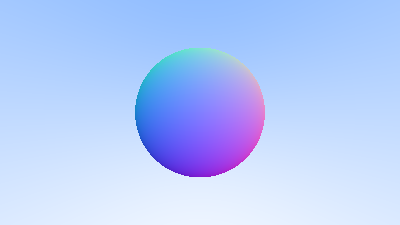
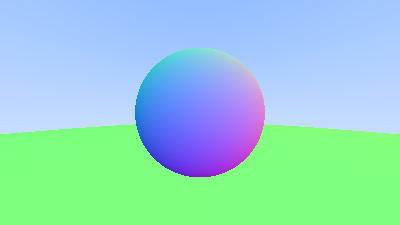
created a classes hittable and hittable_list

diff --git a/apps/main.cpp b/apps/main.cpp
@@ -1,25 +1,15 @@
 #include "face.h"
+#include "hittable.h"
+#include "hittable_list.h"
 #include "obj_loader.h"
 #include "ray.h"
+#include "rtweekend.h"
+#include "sphere.h"
 #include "triangle.h"
 #include "vec3.h"
 
 #include <iostream>
 #include "Magick++.h"
-
-double hit_sphere(const point3& center, double radius, const ray& r) {
-    vec3 oc = r.origin() - center;
-    auto a = r.direction().length_squared();
-    auto half_b = dot(oc, r.direction());
-    auto c = oc.length_squared() - radius*radius;
-    auto discriminant = half_b*half_b - a*c;
-
-    if (discriminant < 0) {
-        return -1.0;
-    } else {
-        return (-half_b - sqrt(discriminant) ) / a;
-    }
-}
 
 Magick::ColorRGB background_color(const ray& r) {
     vec3 unit_direction = unit_vector(r.direction());
@@ -29,11 +19,10 @@ Magick::ColorRGB background_color(const ray& r) {
     return Magick::ColorRGB(v.x(), v.y(), v.z());
 }
 
-Magick::ColorRGB ray_color(const ray& r) {
-    auto t = hit_sphere(point3(0, 0, -1), 0.5, r);
-    if (t > 0.0) {
-        vec3 N = unit_vector(r.at(t) - vec3(0,0,-1));
-        vec3 color = 0.5*vec3(N.x()+1, N.y()+1, N.z()+1);
+Magick::ColorRGB ray_color(const ray& r, const hittable& world) {
+    hit_record rec;
+    if (world.hit(r, 0, infinity, rec)) {
+        vec3 color = 0.5 * (rec.normal + vec3(1,1,1));
         return Magick::ColorRGB(color.x(), color.y(), color.z());
     }
 
@@ -61,6 +50,14 @@ int main() {
     image_height = (image_height < 1) ? 1 : image_height;
 
     Magick::Image image(Magick::Geometry(image_width, image_height), "white");
+
+    // World
+
+    hittable_list world;
+
+    world.add(make_shared<sphere>(point3(0,0,-1), 0.5));
+    world.add(make_shared<sphere>(point3(0,-100.5,-1), 100));
+
     // Camera
 
     auto focal_length = 1.0;
@@ -95,7 +92,7 @@ int main() {
                 if(is_hit) break;
             }*/
 
-            Magick::ColorRGB pixel_color = ray_color(r);
+            Magick::ColorRGB pixel_color = ray_color(r, world);
             image.pixelColor(i, j, pixel_color);
         }
     }

diff --git a/include/hittable_list.h b/include/hittable_list.h
@@ -1,0 +1,42 @@
+#ifndef HITTABLE_LIST_H
+#define HITTABLE_LIST_H
+
+#include "hittable.h"
+
+#include <memory>
+#include <vector>
+
+using std::shared_ptr;
+using std::make_shared;
+
+class hittable_list : public hittable {
+  public:
+    std::vector<shared_ptr<hittable>> objects;
+
+    hittable_list() {}
+    hittable_list(shared_ptr<hittable> object) { add(object); }
+
+    void clear() { objects.clear(); }
+
+    void add(shared_ptr<hittable> object) {
+        objects.push_back(object);
+    }
+
+    bool hit(const ray& r, double ray_tmin, double ray_tmax, hit_record& rec) const override {
+        hit_record temp_rec;
+        bool hit_anything = false;
+        auto closest_so_far = ray_tmax;
+
+        for (const auto& object : objects) {
+            if (object->hit(r, ray_tmin, closest_so_far, temp_rec)) {
+                hit_anything = true;
+                closest_so_far = temp_rec.t;
+                rec = temp_rec;
+            }
+        }
+
+        return hit_anything;
+    }
+};
+
+#endif

diff --git a/include/rtweekend.h b/include/rtweekend.h
@@ -1,0 +1,30 @@
+#ifndef RTWEEKEND_H
+#define RTWEEKEND_H
+
+#include <cmath>
+#include <limits>
+#include <memory>
+
+// Usings
+
+using std::shared_ptr;
+using std::make_shared;
+using std::sqrt;
+
+// Constants
+
+const double infinity = std::numeric_limits<double>::infinity();
+const double pi = 3.1415926535897932385;
+
+// Utility Functions
+
+inline double degrees_to_radians(double degrees) {
+    return degrees * pi / 180.0;
+}
+
+// Common Headers
+
+#include "ray.h"
+#include "vec3.h"
+
+#endif

diff --git a/include/hittable.h b/include/hittable.h
@@ -8,6 +8,12 @@ class hit_record {
     point3 p;
     vec3 normal;
     double t;
+    bool front_face;
+
+    void set_face_normal(const ray& r, const vec3& outward_normal) {
+        front_face = dot(r.direction(), outward_normal) < 0;
+        normal = front_face ? outward_normal : -outward_normal;
+    }
 };
 
 class hittable {

diff --git a/include/sphere.h b/include/sphere.h
@@ -28,7 +28,8 @@ class sphere : public hittable {
 
         rec.t = root;
         rec.p = r.at(rec.t);
-        rec.normal = (rec.p - center) / radius;
+        vec3 outward_normal = (rec.p - center) / radius;
+        rec.set_face_normal(r, outward_normal);
 
         return true;
     }
